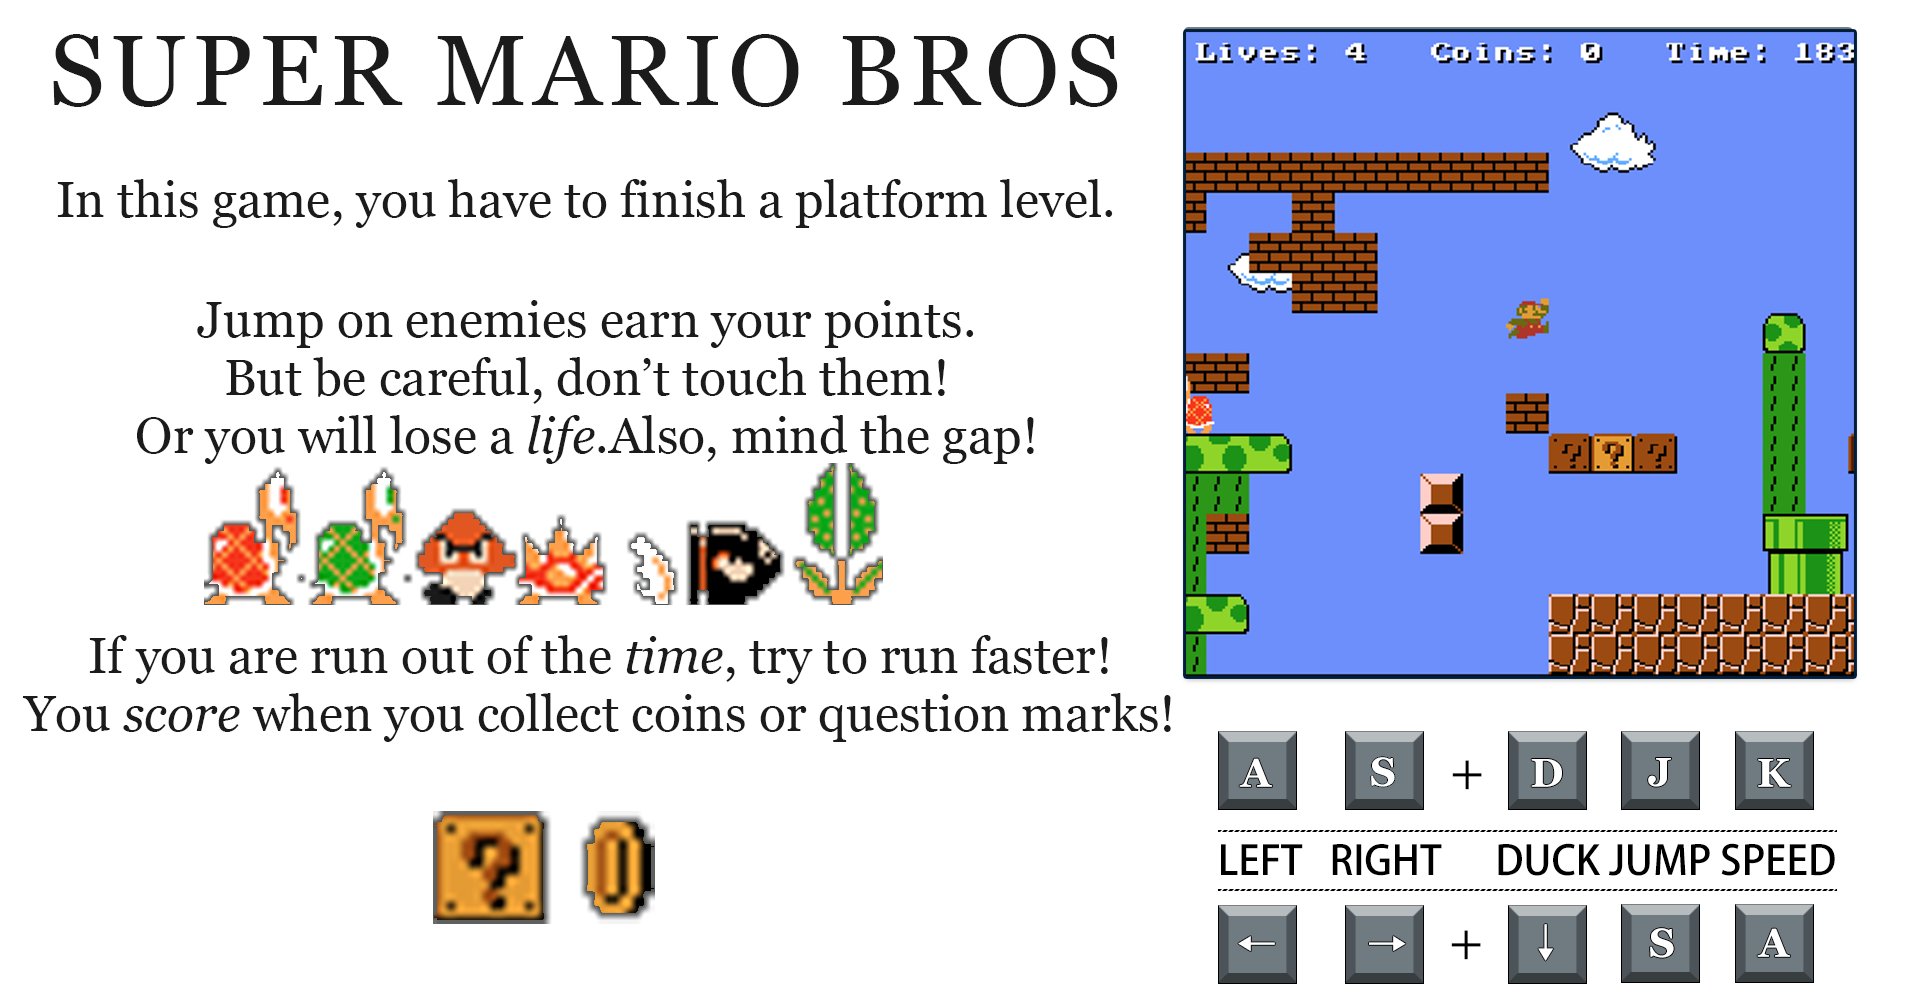
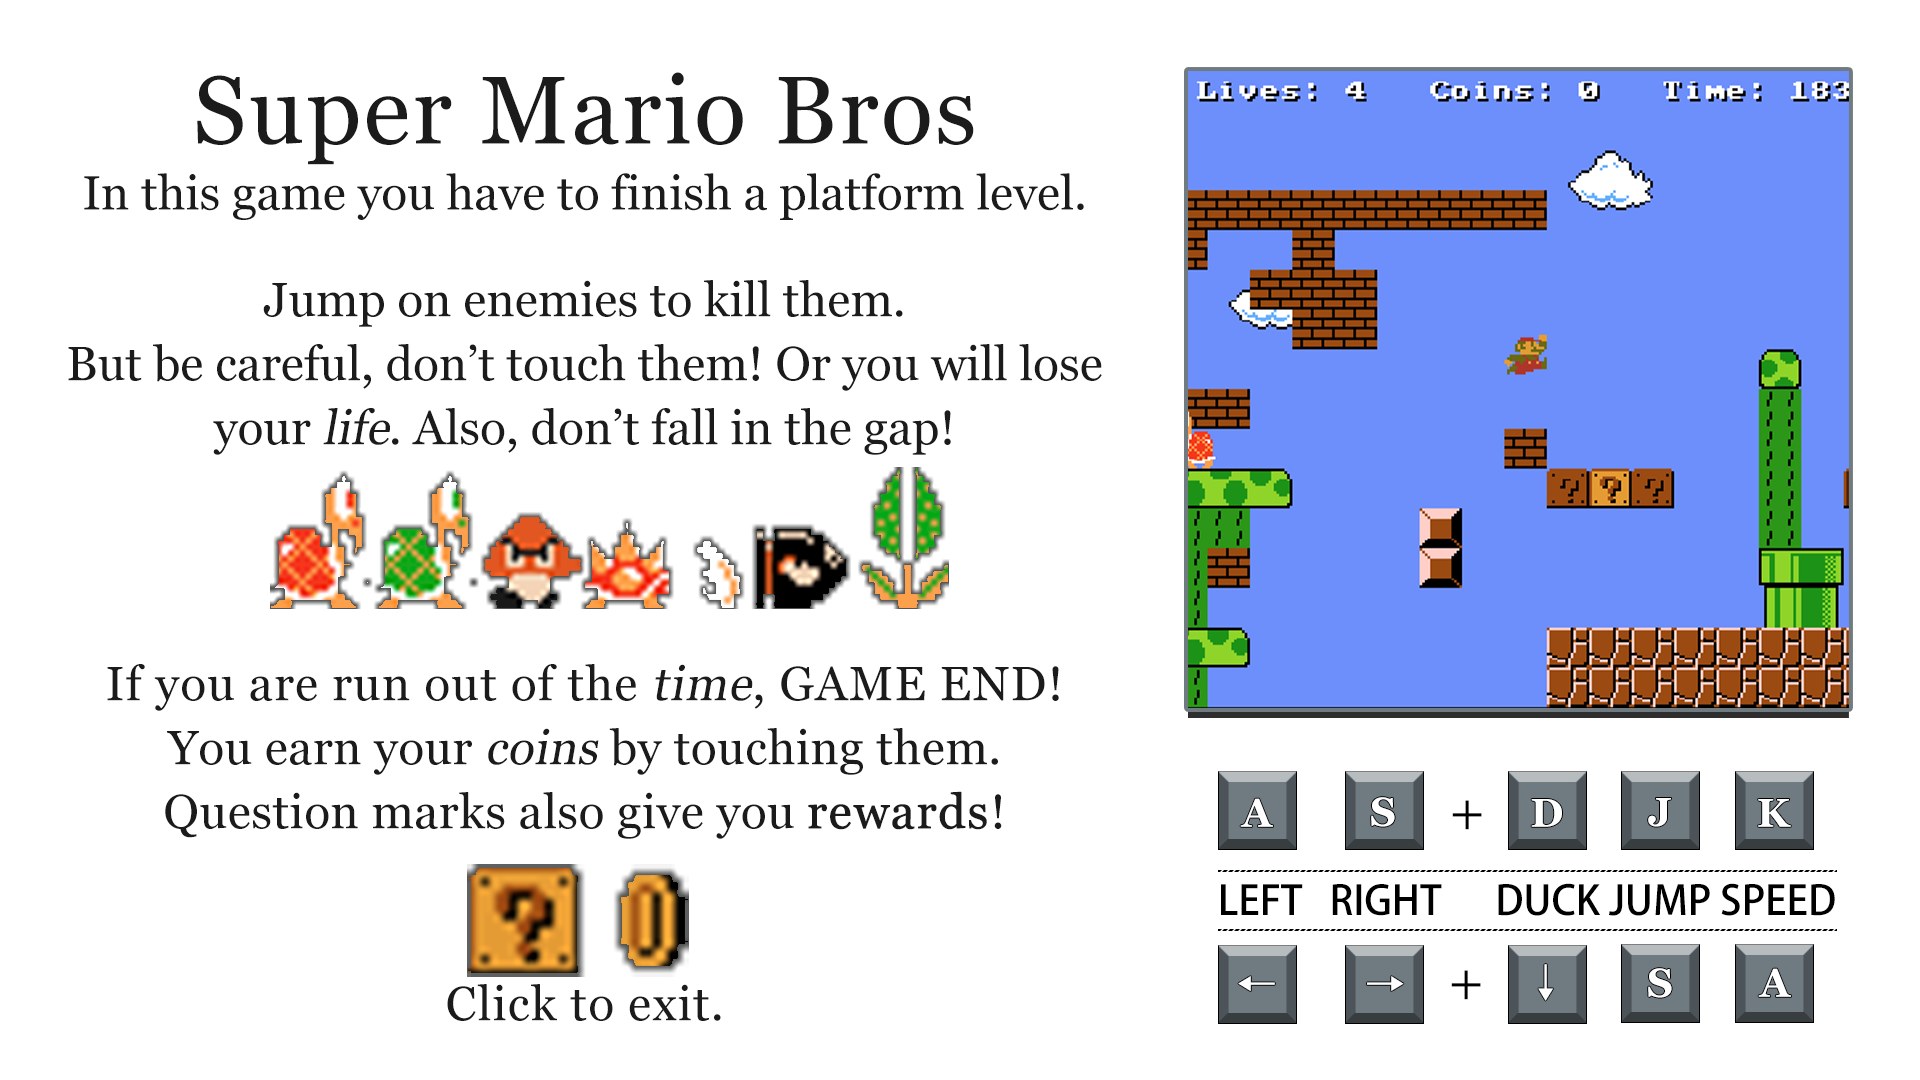
Update

diff --git a/templates/GameTutorial.html b/templates/GameTutorial.html
@@ -212,19 +212,24 @@
   </nav>
 
 
-  <section style="background-color: rgba(255,255,255,0.5);">
+  <section style="background-color: rgb(255, 255, 255);">
 
-    <div class="container" style="font-weight: 600;
-    background-color: rgba(255,255,255,0.7);">
+    <div class="container" style="font-weight: 600
+   ;">
 
-      <div class="row clearfix">
+      <div class="row clearfix" >
+        <!-- <style=" background-color: rgba(255,255,255);height: 130vh;
+      margin-top: -90px;"> -->
 
-        <div class="col-md-12">
+        <div class="col-md-12" style=" background-color: rgba(255,255,255);" >
           <div align="center">
+
             <h3>Super Mario Bros Tutorial</h3>
-            Before proceeding to the main part of the experiment please familiarize yourself with the game.<br>
-            You may proceed to the next phase of this survey once you are ready!
-            <br>
+            <p >  Before proceeding to the main part of the experiment please familiarize yourself with the game.<br>
+            You may proceed to the next phase of this survey once you are ready!</p>
+ 
+            <b>Click <a onclick="replay()" href="#mask">ME</a> to show the instruction page again.</b>
+
             <p class="alert">If the game is not responding to your keyboard, please click on the game screen.</p>
           </div>
 
@@ -240,7 +245,7 @@
 
           </div>
 
-        </div>
+            </div>
 
         <div class="col-md-6" align="center" style="visibility: hidden;" id="next">
           <br>
@@ -283,31 +288,32 @@
             <h3>Play Game</h3>
           </button>
         </div>
+
         <div id="countdown"
-          style="z-index:999; position:absolute; left:50px; bottom: 20px; color: #ffffff; font-size: xx-large; background-color: rgba(0, 0, 0, 0.3);">
+          style="z-index:999; position:absolute; left:50px; bottom: 20px; color: #ffffff; font-size: xx-large; ">
         </div>
         <img style=" height: 90vh;bottom: 3.5vh; left: 0vw;
             position: absolute;z-index: 900; visibility: visible; width: 100%;" src="../templates/Web/pic.png"
           id="windowshow">
         <script>
           function countdown() {
-            var count = 10; // 设置倒计时秒数
-            var timer = setInterval(function () {
-              count--;
-              if (count <= 0) {
-                clearInterval(timer);
-                $("#countdown").hide();
-                $("#windowshow:visible").hide(); // 倒计时结束后隐藏倒计时容器
+            // var count = 10; // 设置倒计时秒数
+            // var timer = setInterval(function () {
+            //   count--;
+            //   if (count <= 0) {
+            //     clearInterval(timer);
+            //     $("#countdown").hide();
+            //     $("#windowshow:visible").hide(); // 倒计时结束后隐藏倒计时容器
 
-              } else {
-                $("#countdown").html("This instruction will close in " + count + "s. <br>Or click to close."); // 更新倒计时容器内容
+            //   } else {
+                $("#countdown").html("Click to close."); // 更新倒计时容器内容
                 $("#windowshow").click(function () {
                   $("#windowshow").hide();
                   $("#countdown").hide();
-                });
-              }
-            }, 1000);
-          }
+                });}
+          //     }
+          //   }, 1000);
+          // }
 
           $(document).ready(function () {
             countdown();
@@ -365,7 +371,6 @@
     </div>
 
 
-    <div id="mask" onclick="replay()"></div>
     <script>
       function replay() {
 
@@ -383,7 +388,7 @@
   <!-- Footer mx-auto -->
   <footer class="py-5 bg-dark">
     <div class="container">
-      <div class="row clearfix">
+      <div class="row clearfix" >
         <!-- <div class="col-md-2 column">
           <img class="img-fluid" alt="" src="../templates/Web/Wechat.png" style="width: 100px;">
       </div> -->

diff --git a/templates/GameWelcome.html b/templates/GameWelcome.html
@@ -272,9 +272,10 @@
             <li> This experiment has <b>three phases</b>.
               <ol style="list-style-type: lower-roman;">
                 <li>First you must answer <b>a questionnaire</b>. </li>
-                <li>Then you will complete a <b>short game tutorial</b>, play<b> 2 levels</b> of the game and answer a simple
-                  question. You can <b>repeats</b> this phase as you like. </li>
+                <li>Then you will complete a <b>short game tutorial</b>, play<b> 2 levels</b> of the game and answer a
+                  simple question. You will play<b> another 2 levels</b>. </li>
                 <li>Finally you will play <b>3 levels</b> and answer a simple question.</li>
+                <li>You can also replay the second phase after finishing the whole process.</li>
               </ol>
             <li>In total, the experiment takes approximately <b>15 minutes</b> to complete.</li>
             <li> Have Fun!

diff --git a/templates/GameQuestion.html b/templates/GameQuestion.html
@@ -376,8 +376,10 @@
               Prefer not to say
             </label>
             <label>
-              <input type="radio" class="option-input radio" name="gender" value="C">
-              Not listed
+              <input type="radio" class="option-input radio" name="gender" value="D">
+              Other: 
+              <input type="text" value="">
+             
             </label>
             </p>
 

diff --git a/templates/GameOver.html b/templates/GameOver.html
@@ -179,7 +179,7 @@
       </h1>
       <br>
       <h3 id="question">
-        Do you want to play another round?
+        Do you want to play again from the second phase?
       </h3>
       <br>
       <button onclick="window.location.href = '/gameplay2';" class="cirButton">Yes</button>
